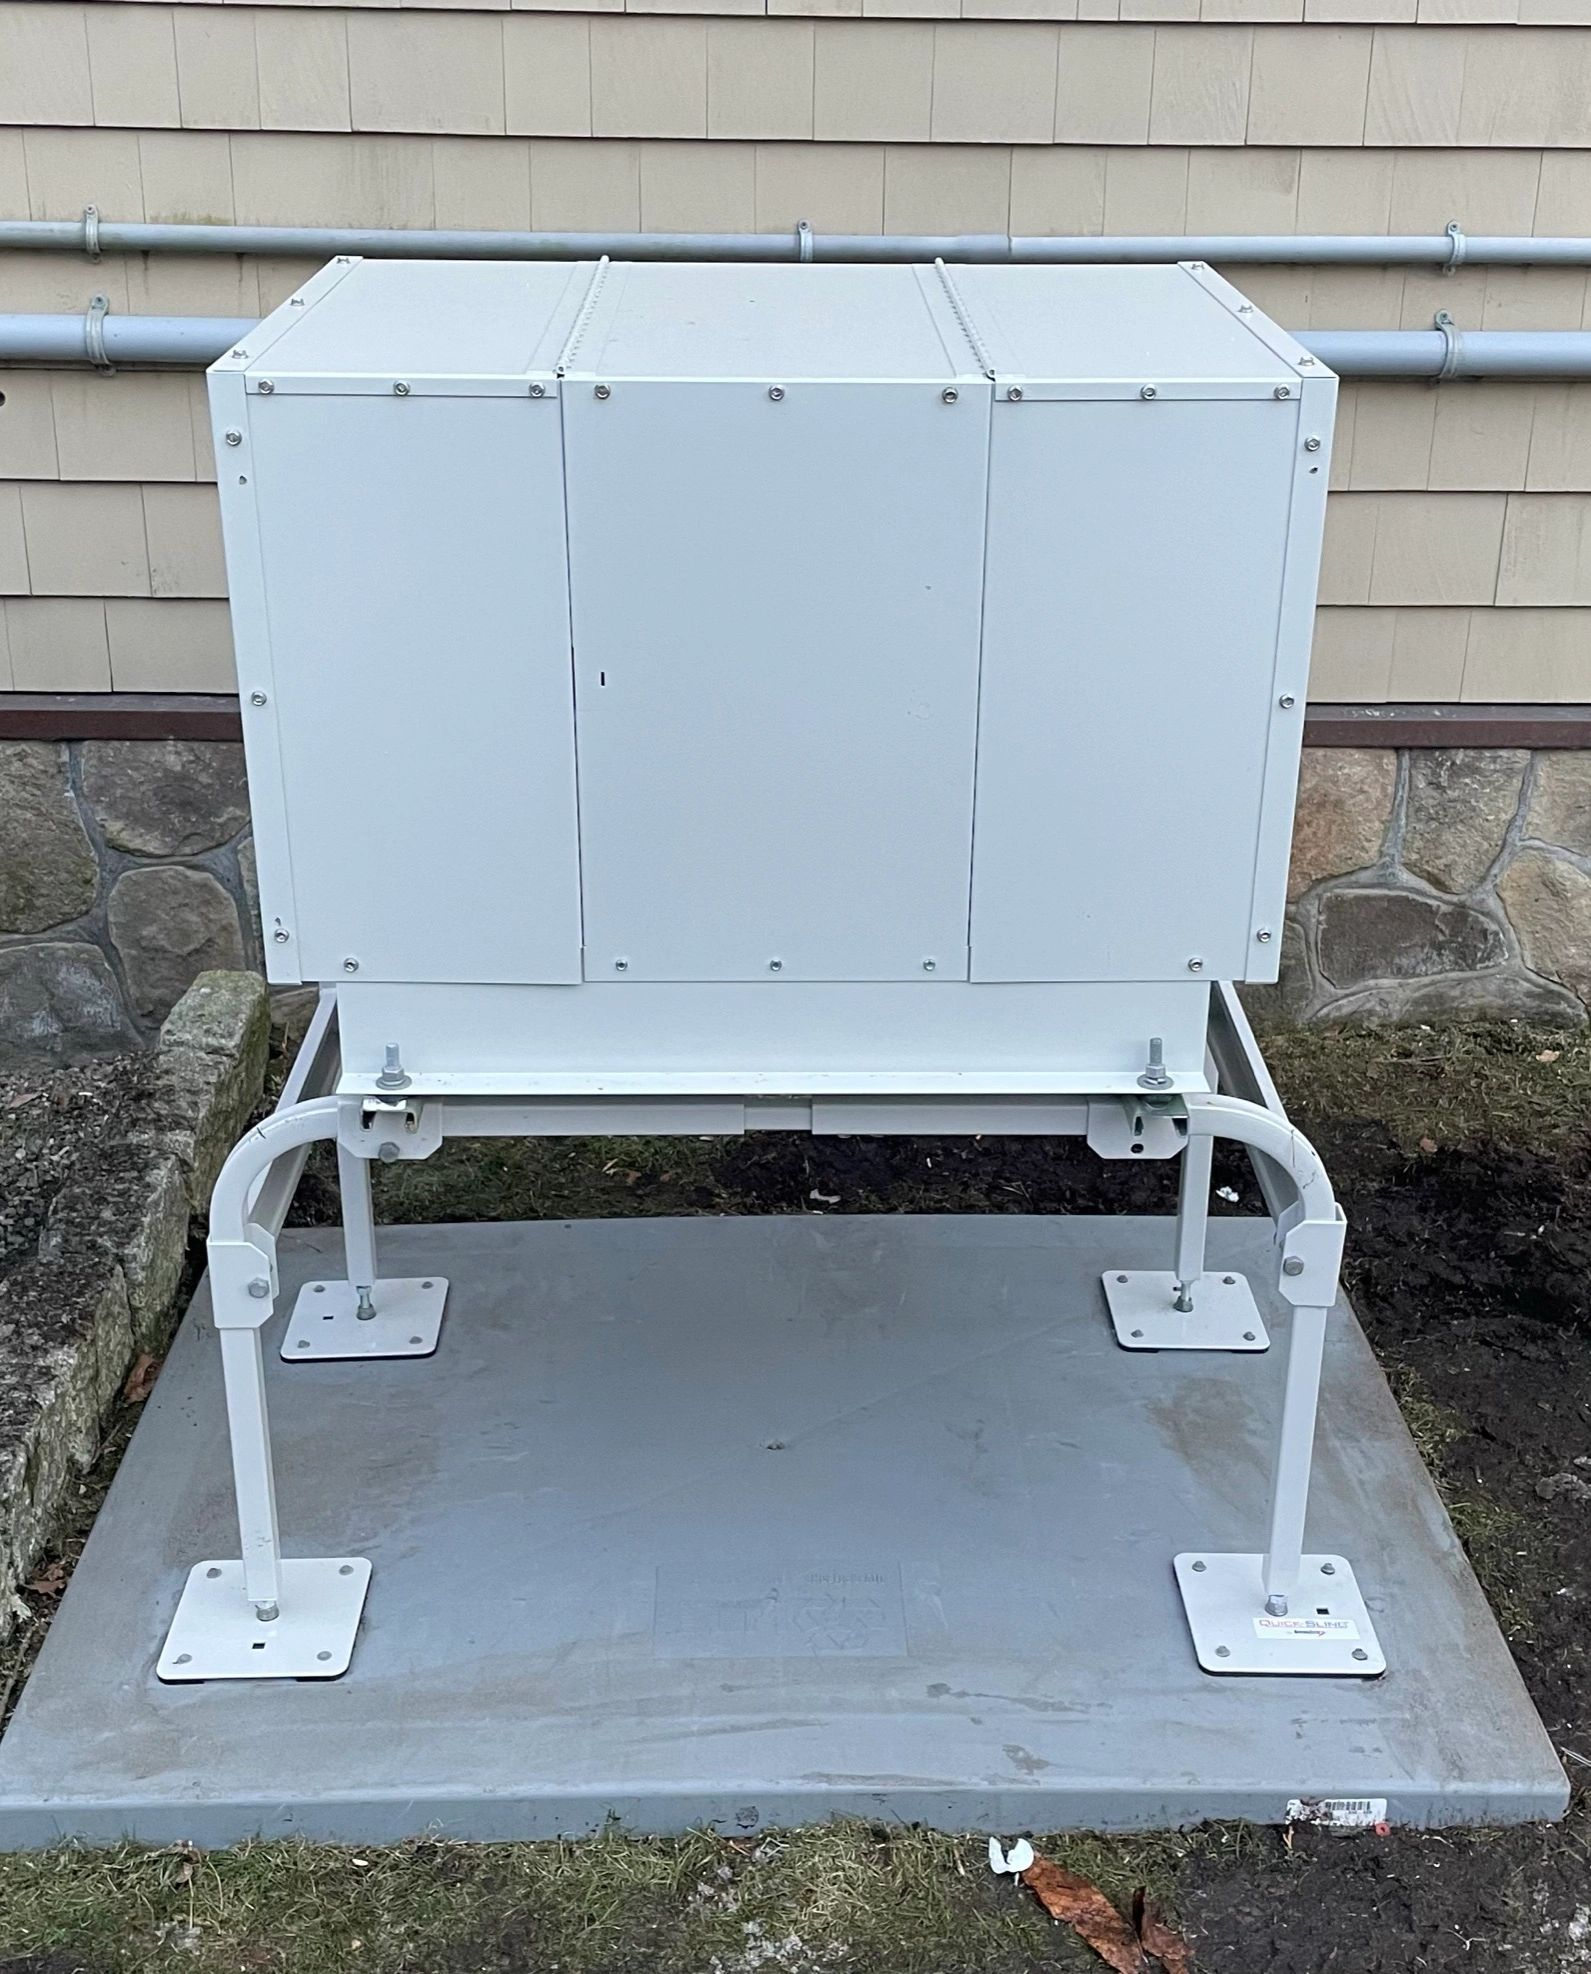
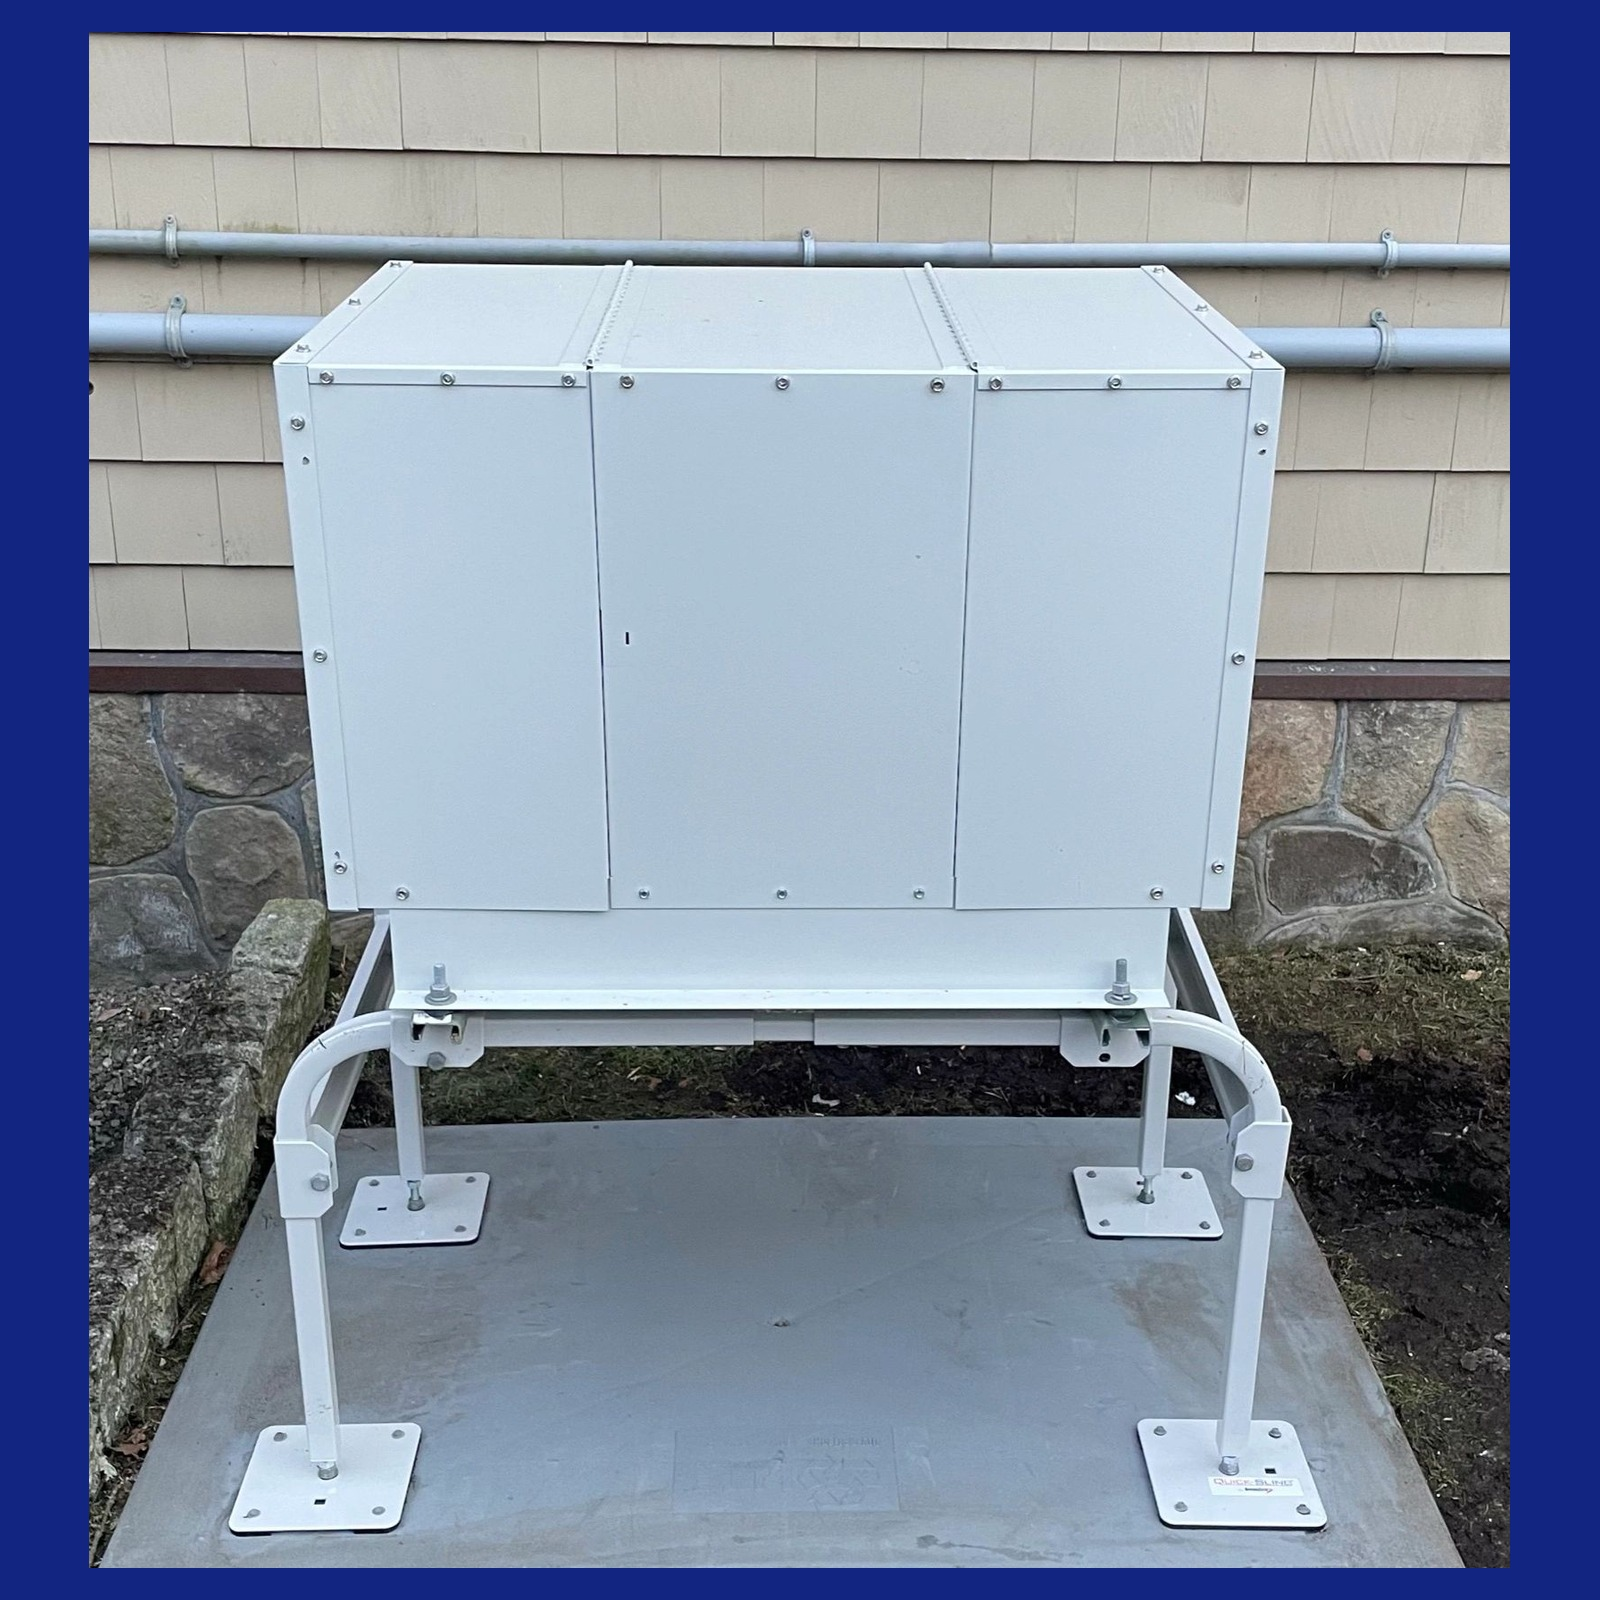
Reframe Temperature Control photo so the unit stays fully in view.
Crop the specialty condenser into a padded square and lock that service visual to 1:1 without the hover zoom crop.

diff --git a/services/index.html b/services/index.html
@@ -232,8 +232,8 @@
 
       <!-- 06 Temperature Control -->
       <div class="svc-row reverse" id="temperature-control" tabindex="-1">
-        <div class="svc-visual">
-          <img src="../assets/kool-energy-tech-field-work-8.jpeg" alt="Specialty outdoor temperature control condenser installed for precision climate applications" class="w-full h-full object-cover" loading="lazy" />
+        <div class="svc-visual" style="aspect-ratio: 1 / 1;">
+          <img src="../assets/kool-energy-tech-field-work-8.jpeg" alt="Specialty outdoor temperature control condenser installed for precision climate applications" class="w-full h-full object-cover" style="object-position: center; transform: none;" loading="lazy" />
         </div>
         <div class="svc-text">
           <div class="svc-number">06</div>
